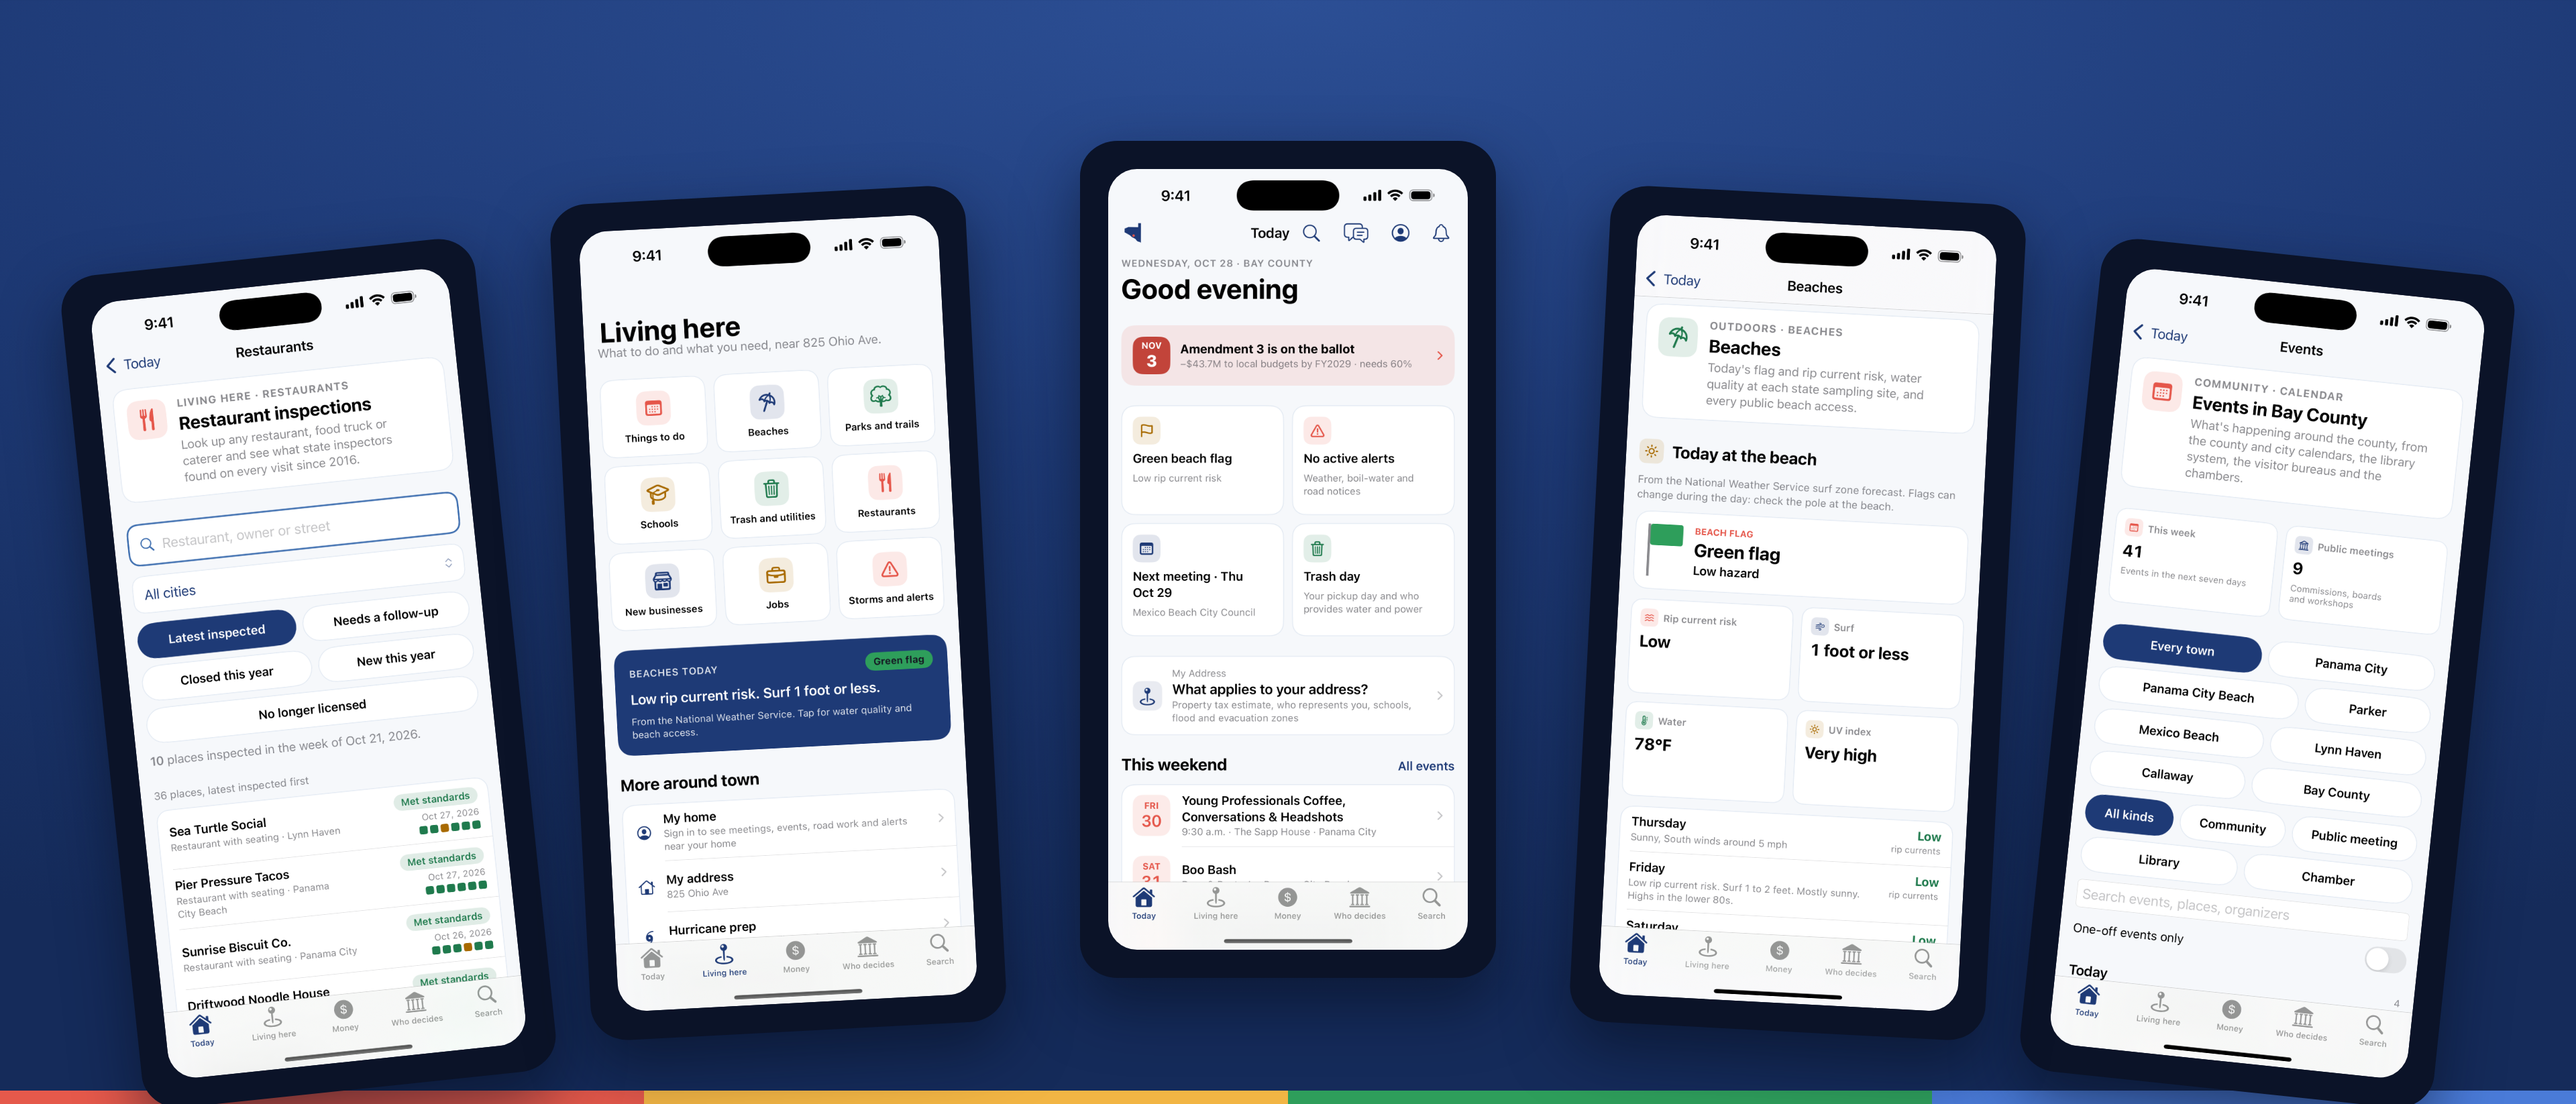
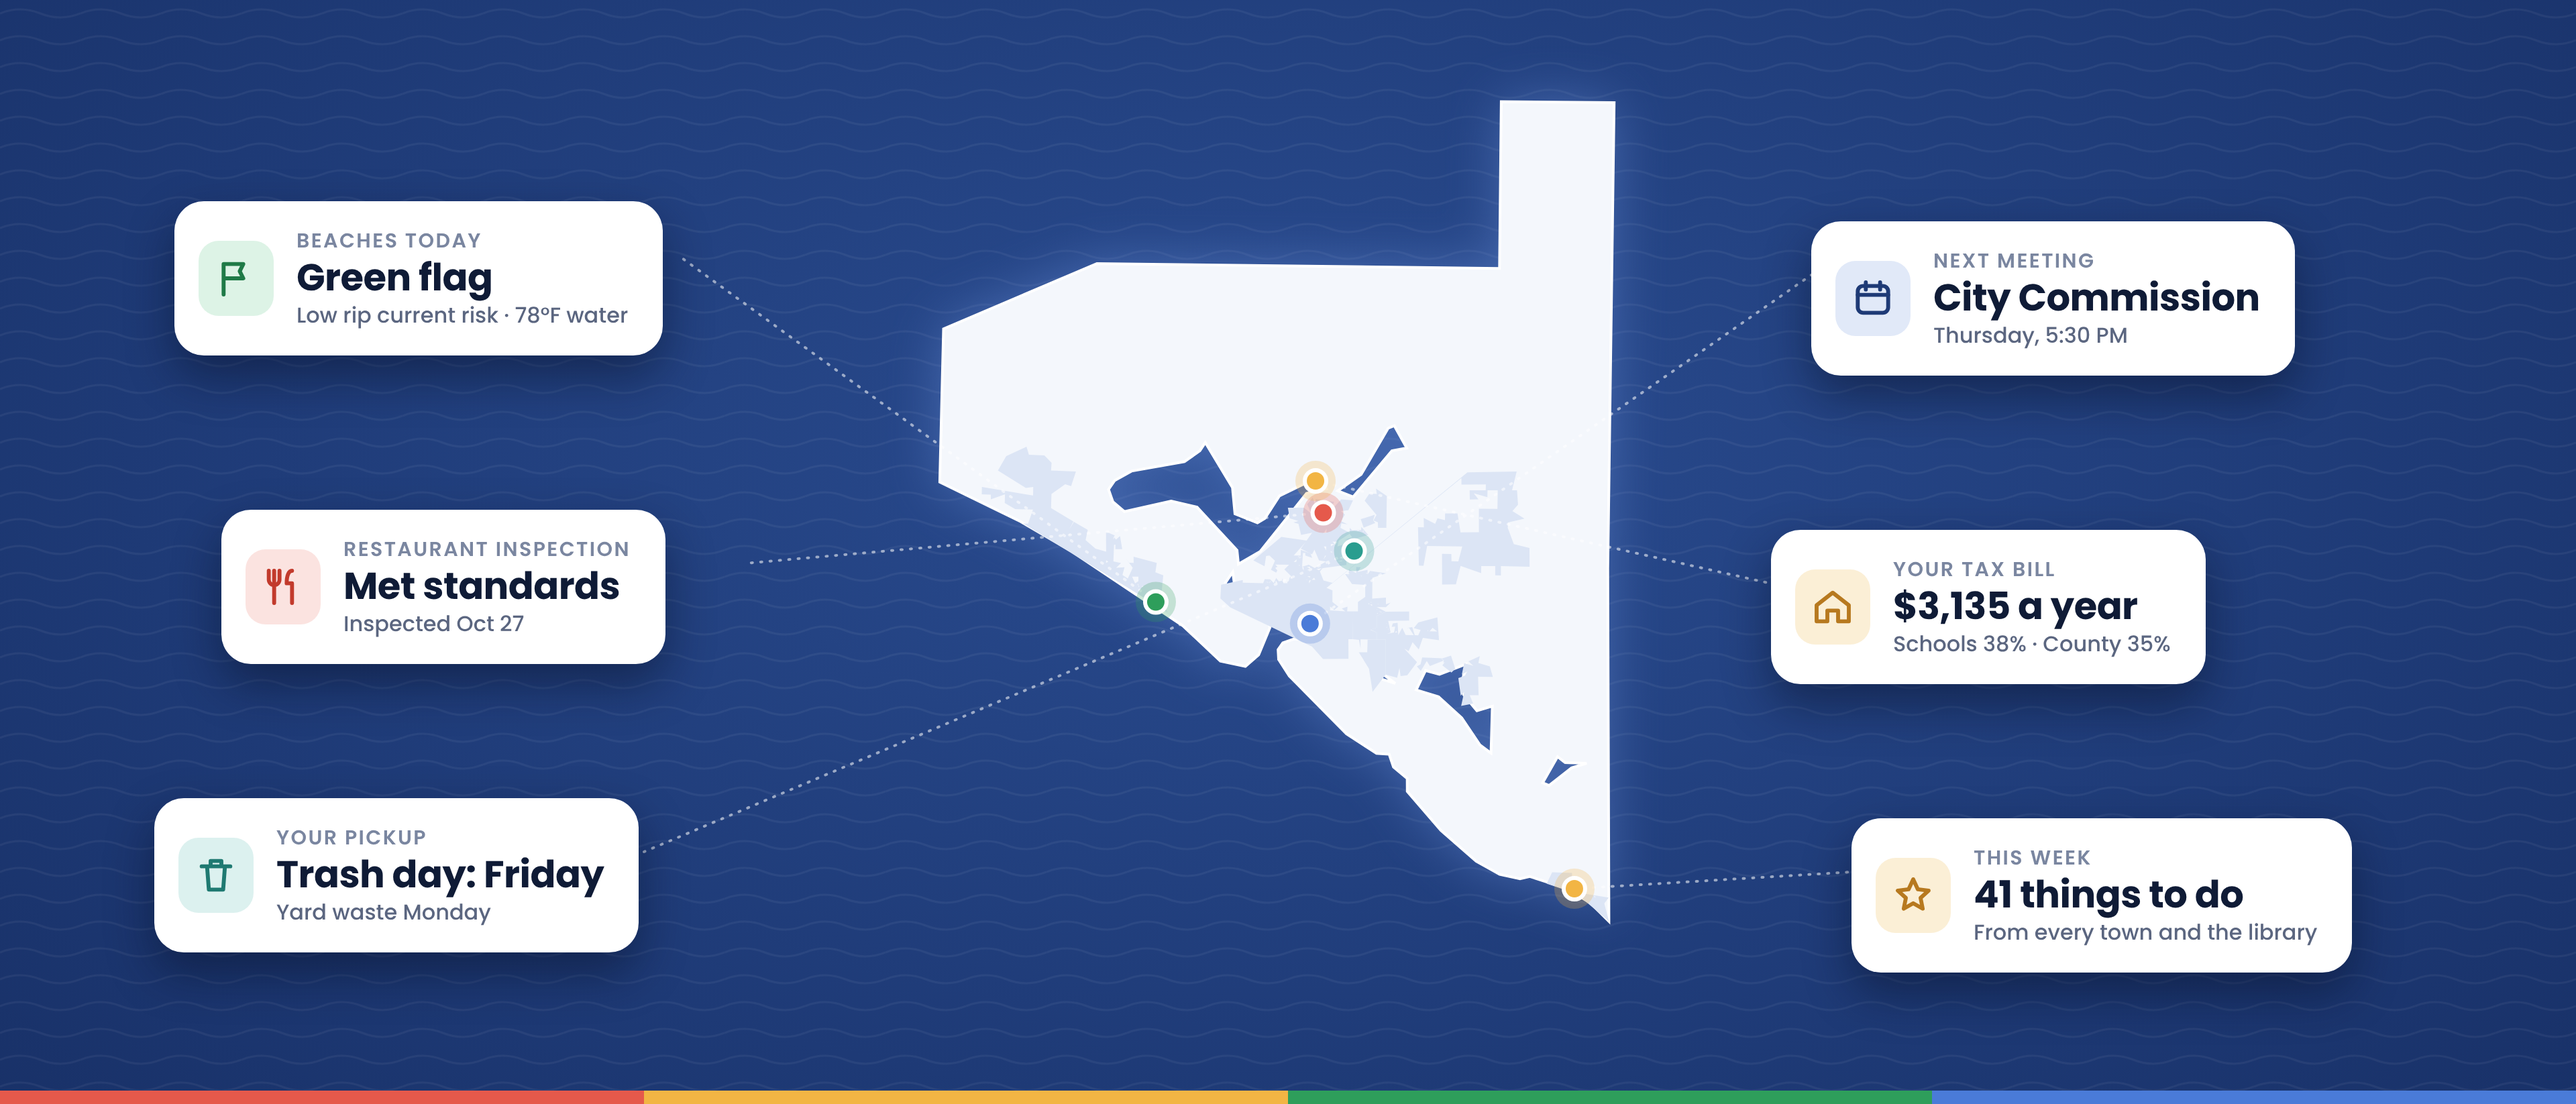
Store header + search results: county map with info cards instead of phone screenshots
Claude-Session: https://claude.ai/code/session_01HUBaQrnQzc4wmcUB5UGrtg

diff --git a/ios/scripts/store_creative_map.js b/ios/scripts/store_creative_map.js
@@ -1,0 +1,76 @@
+const { chromium } = require('playwright');
+// Map-style App Store header + search results art (no phone screenshots).
+// Run from the repo root: NODE_PATH=$(npm root -g) node ios/scripts/store_creative_map.js <dir with fonts/p500|p600|p700.woff2> <out dir>
+const fs = require('fs'), path = require('path'), { execFileSync } = require('child_process');
+const S = process.argv[2], OUT = process.argv[3];
+const b64 = f => fs.readFileSync(f).toString('base64');
+const font = w => `@font-face{font-family:P;font-weight:${w};src:url(data:font/woff2;base64,${b64(path.join(S,'fonts','p'+w+'.woff2'))}) format('woff2')}`;
+const map = (k, ox, oy) => JSON.parse(execFileSync('python3', [path.join(__dirname,'store_creative_map.py'), k, ox, oy]).toString());
+// icon: small inline SVGs
+const I = {
+  flag:'<path d="M5 21V4m0 0h11l-2 4 2 4H5" stroke="currentColor" stroke-width="2.2" fill="none" stroke-linecap="round" stroke-linejoin="round"/>',
+  fork:'<path d="M7 3v8m-3-8v5a3 3 0 0 0 6 0V3m-3 8v10m10-18c-2 0-3 3-3 7h3v11" stroke="currentColor" stroke-width="2.2" fill="none" stroke-linecap="round" stroke-linejoin="round"/>',
+  cal:'<rect x="3.5" y="5" width="17" height="15" rx="3" stroke="currentColor" stroke-width="2.2" fill="none"/><path d="M3.5 10h17M8 3v4m8-4v4" stroke="currentColor" stroke-width="2.2" stroke-linecap="round"/>',
+  trash:'<path d="M4 7h16M9 7V4h6v3m-8 0 1 13h8l1-13" stroke="currentColor" stroke-width="2.2" fill="none" stroke-linecap="round" stroke-linejoin="round"/>',
+  home:'<path d="M3 11 12 4l9 7v9h-6v-6H9v6H3z" stroke="currentColor" stroke-width="2.2" fill="none" stroke-linejoin="round"/>',
+  star:'<path d="M12 3l2.6 5.6 6 .7-4.5 4.1 1.2 6L12 16.4 6.7 19.4l1.2-6L3.4 9.3l6-.7z" stroke="currentColor" stroke-width="2.2" fill="none" stroke-linejoin="round"/>',
+};
+const card = (x, y, s, ic, tone, kicker, title, sub) => `<div class="card" style="left:${x}px;top:${y}px;transform:scale(${s});transform-origin:0 0">
+  <div class="ic" style="background:${tone[0]};color:${tone[1]}"><svg viewBox="0 0 24 24" width="64" height="64">${I[ic]}</svg></div>
+  <div><div class="k">${kicker}</div><div class="h">${title}</div><div class="sb">${sub}</div></div></div>`;
+const T = {amber:['#FBEFD6','#B7791F'], green:['#DDF3E6','#1F7A47'], blue:['#E1E9F8','#1E3A76'], red:['#FBE3E0','#C23A2C'], teal:['#DCF1EF','#1F7A72']};
+const page = (W, H, m, body) => `<html><head><style>${font(500)}${font(600)}${font(700)}
+*{margin:0;box-sizing:border-box}body{width:${W}px;height:${H}px;overflow:hidden;font-family:P;position:relative;
+background:radial-gradient(90% 120% at 50% 40%,#2A4C90 0%,#1E3A76 50%,#13285A 100%)}
+.card{position:absolute;display:flex;gap:34px;align-items:center;background:#fff;border-radius:44px;padding:36px 52px 36px 36px;
+box-shadow:0 30px 70px rgba(4,12,32,.45);white-space:nowrap}
+.ic{width:112px;height:112px;border-radius:30px;display:flex;align-items:center;justify-content:center;flex:none}
+.k{font-size:30px;font-weight:600;letter-spacing:.08em;text-transform:uppercase;color:#7A86A0}
+.h{font-size:56px;font-weight:700;color:#0F1B36;letter-spacing:-.01em;line-height:1.15}
+.sb{font-size:32px;font-weight:500;color:#5B6680}
+.bar{position:absolute;left:0;right:0;bottom:0;height:${Math.round(H*0.012)}px;display:flex}.bar i{flex:1}
+.t{color:#fff;font-weight:700;letter-spacing:-.02em;line-height:1.04}.t em{font-style:normal;color:#F2B544}.s{color:#C9D5EE;font-weight:500}
+</style></head><body>
+<svg width="${W}" height="${H}" style="position:absolute;left:0;top:0">
+<defs><pattern id="w" width="120" height="40" patternUnits="userSpaceOnUse"><path d="M0 20 Q30 8 60 20 T120 20" stroke="rgba(255,255,255,.05)" stroke-width="3" fill="none"/></pattern></defs>
+<rect width="${W}" height="${H}" fill="url(#w)"/>
+<filter id="g" x="-20%" y="-20%" width="140%" height="140%"><feGaussianBlur stdDeviation="40"/></filter><path d="${m.county}" fill="#6F95E0" opacity=".45" filter="url(#g)"/>
+<path d="${m.county}" fill="#F4F7FC" stroke="#fff" stroke-width="4"/>
+${m.cities}
+${body.lines}
+</svg>${body.html}
+<div class="bar"><i style="background:#E5594B"></i><i style="background:#F2B544"></i><i style="background:#2E9E5B"></i><i style="background:#4A7BD8"></i></div></body></html>`;
+const pin = (p, c) => `<circle cx="${p[0]}" cy="${p[1]}" r="30" fill="${c}" opacity=".25"/><circle cx="${p[0]}" cy="${p[1]}" r="16" fill="${c}" stroke="#fff" stroke-width="6"/>`;
+const line = (p, x, y) => `<path d="M${p[0]},${p[1]} L${x},${y}" stroke="rgba(255,255,255,.55)" stroke-width="4" stroke-dasharray="2 12" stroke-linecap="round"/>`;
+(async () => {
+  const b = await chromium.launch();
+  const shoot = async (W, H, html, name) => { const p = await b.newPage({viewport:{width:W,height:H}}); await p.setContent(html); await p.waitForTimeout(300); await p.screenshot({path:path.join(OUT,name)}); await p.close(); };
+  // Header 3840x1646
+  {
+    const W=3840,H=1646, m=map(1900,1296,90), P=m.pts;
+    const cards=[ // [pt, cardX, cardY, anchorX, anchorY, icon, tone, kicker, title, sub, color]
+      [P.beach, 260, 300, 1010, 380, 'flag', T.green, 'Beaches today', 'Green flag', 'Low rip current risk · 78°F water', '#2E9E5B'],
+      [P.food, 330, 760, 1110, 840, 'fork', T.red, 'Restaurant inspection', 'Met standards', 'Inspected Oct 27', '#E5594B'],
+      [P.trash, 230, 1190, 960, 1270, 'trash', T.teal, 'Your pickup', 'Trash day: Friday', 'Yard waste Monday', '#2A9D8F'],
+      [P.meeting, 2700, 330, 2700, 410, 'cal', T.blue, 'Next meeting', 'City Commission', 'Thursday, 5:30 PM', '#4A7BD8'],
+      [P.tax, 2640, 790, 2640, 870, 'home', T.amber, 'Your tax bill', '$3,135 a year', 'Schools 38% · County 35%', '#F2B544'],
+      [P.events, 2760, 1220, 2760, 1300, 'star', T.amber, 'This week', '41 things to do', 'From every town and the library', '#F2B544'],
+    ];
+    const lines=cards.map(c=>line(c[0],c[3],c[4])+pin(c[0],c[10])).join('');
+    const html=cards.map(c=>card(c[1],c[2],1,c[5],c[6],c[7],c[8],c[9])).join('');
+    await shoot(W,H,page(W,H,m,{lines,html}),'header-3840x1646.png');
+  }
+  // Search results 3840x2560: headline left, map right with three cards
+  {
+    const W=3840,H=2560, m=map(2900,2000,120), P=m.pts;
+    const html=`<div style="position:absolute;left:220px;top:760px;width:1700px">
+      <div class="t" style="font-size:170px">Everything<br>Bay County,<br><em>sourced</em></div>
+      <div class="s" style="font-size:72px;margin-top:60px;line-height:1.3">Beaches, restaurants, meetings, your tax bill and what's near your home.</div></div>`
+      + card(1700, 420, 1.15, 'flag', T.green, 'Beaches today', 'Green flag', 'Low rip current risk', '')
+      + card(1780, 1560, 1.15, 'fork', T.red, 'Restaurant inspection', 'Met standards', 'Inspected Oct 27')
+      + card(2700, 2050, 1.15, 'cal', T.blue, 'Next meeting', 'City Commission', 'Thursday, 5:30 PM');
+    const lines=line(P.beach,2300,560)+pin(P.beach,'#2E9E5B')+line(P.food,2300,1700)+pin(P.food,'#E5594B')+line(P.meeting,3000,2060)+pin(P.meeting,'#4A7BD8');
+    await shoot(W,H,page(W,H,m,{lines,html}),'search-results-3840x2560.png');
+  }
+  await b.close();
+})();

diff --git a/ios/scripts/store_creative_map.py b/ios/scripts/store_creative_map.py
@@ -1,0 +1,23 @@
+import json, math, sys
+j = json.load(open('geo/basemap.json'))
+LON0, LON1, LAT0, LAT1 = -86.06, -85.30, 29.84, 30.60
+C = math.cos(math.radians(30.2))
+def proj(lon, lat, k, ox, oy): return (ox + (lon - LON0) * C * k, oy + (LAT1 - lat) * k)
+def path(polys, k, ox, oy):
+    d = []
+    for poly in polys:
+        for ring in poly:
+            pts = [proj(x, y, k, ox, oy) for x, y in ring]
+            d.append('M' + 'L'.join(f'{x:.1f},{y:.1f}' for x, y in pts) + 'Z')
+    return ''.join(d)
+def svg(k, ox, oy):
+    land = path(j['land'], k, ox, oy)
+    county = path(j['county'], k, ox, oy)
+    cities = ''.join(f'<path d="{path(v, k, ox, oy)}" fill="#DCE5F5"/>' for v in j['cities'].values())
+    return land, county, cities
+k = float(sys.argv[1]); ox = float(sys.argv[2]); oy = float(sys.argv[3])
+land, county, cities = svg(k, ox, oy)
+pts = {n: proj(lon, lat, k, ox, oy) for n, (lon, lat) in {
+    'beach': (-85.80, 30.175), 'food': (-85.648, 30.245), 'meeting': (-85.66, 30.158),
+    'trash': (-85.62, 30.215), 'tax': (-85.655, 30.27), 'events': (-85.42, 29.95)}.items()}
+json.dump({'land': land, 'county': county, 'cities': cities, 'pts': pts}, sys.stdout)
